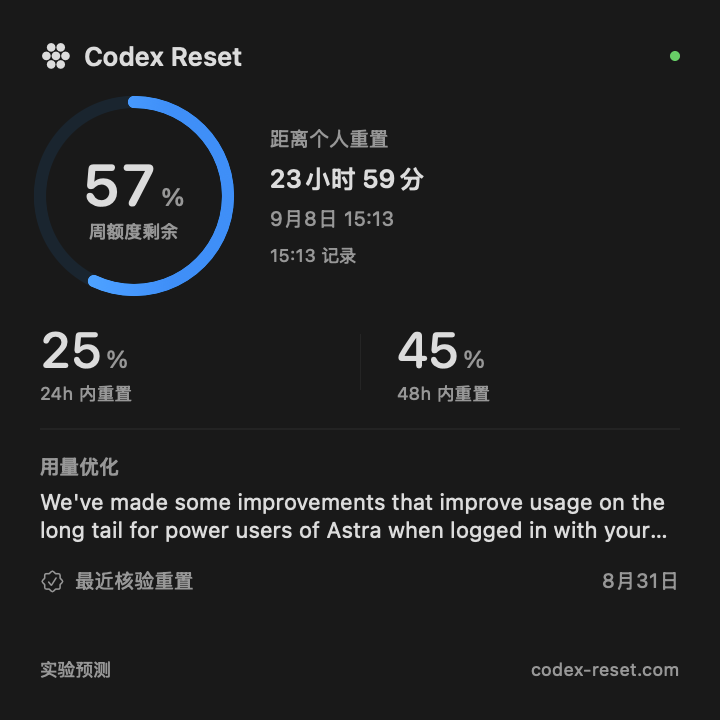
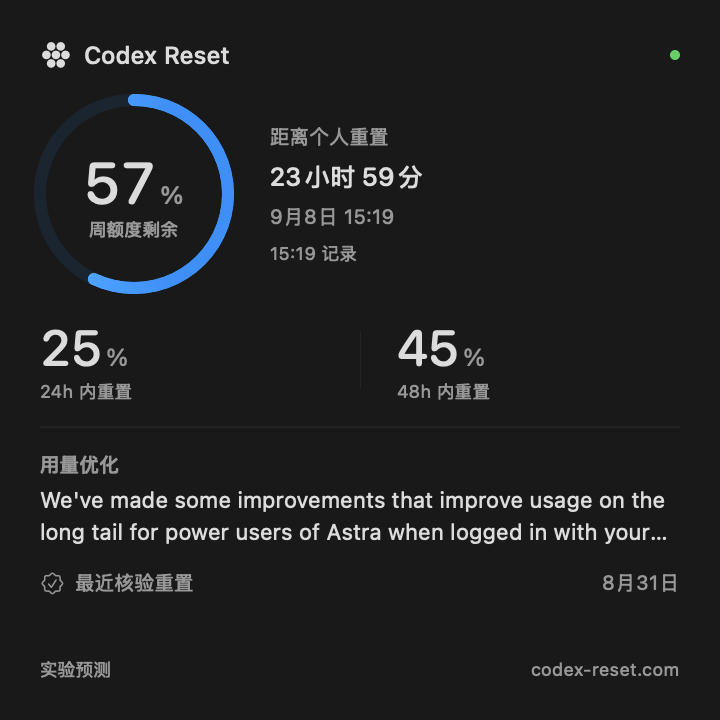
Refine widget typography and reload stale extension after builds

diff --git a/Widget/CodexResetWidget.swift b/Widget/CodexResetWidget.swift
@@ -42,7 +42,7 @@ struct ResetWidgetView: View {
         VStack(alignment: .leading, spacing: 12) {
             HStack(spacing: 6) {
                 Image(systemName: "circle.hexagongrid.fill").font(.system(size: 13, weight: .medium))
-                Text("Codex Reset").font(.system(size: 13, weight: .semibold))
+                Text("Codex Reset").font(.system(size: 12, weight: .medium))
                 Spacer()
                 Circle().fill(entry.snapshot.isStale(at: entry.date) ? Color.orange : Color.green).frame(width: 5, height: 5)
             }
@@ -65,8 +65,8 @@ struct ResetWidgetView: View {
         }
         .containerBackground(for: .widget) {
             Rectangle().fill(.background)
-                .overlay(alignment: .topLeading) {
-                    LinearGradient(colors: [.blue.opacity(0.045), .clear], startPoint: .topLeading, endPoint: .bottomTrailing)
+                .overlay {
+                    LinearGradient(colors: [.blue.opacity(0.07), .clear, .primary.opacity(0.025)], startPoint: .topLeading, endPoint: .bottomTrailing)
                 }
         }
         .widgetURL(URL(string: "codexreset://open"))
@@ -83,7 +83,7 @@ struct ResetWidgetView: View {
             if let post = posts.first {
                 VStack(alignment: .leading, spacing: 4) {
                     Text(ResetPresentation.category(post.kind)).font(.system(size: 10, weight: .semibold)).foregroundStyle(.secondary)
-                    Text(post.text).font(.system(size: 11)).lineLimit(2)
+                    Text(post.text).font(.system(size: 11, weight: .regular)).lineSpacing(2).lineLimit(2)
                 }
             }
             if let event = events.first, let date = event.announced_at {
@@ -118,7 +118,7 @@ struct ResetWidgetView: View {
         VStack(alignment: .leading, spacing: 6) {
             Text("距离个人重置").font(.system(size: 10)).foregroundStyle(.secondary)
             Text(entry.personal.isConfigured ? entry.personal.needsUpdate(at: entry.date) ? "等待更新" : ResetPresentation.countdown(to: entry.personal.resetAt, from: entry.date) : "连接 Codex")
-                .font(.system(size: extraLarge ? 15 : 17, weight: .semibold, design: .rounded))
+                .font(.system(size: extraLarge ? 15 : 17, weight: .medium, design: .rounded))
                 .lineLimit(1).minimumScaleFactor(0.75)
             if entry.personal.isConfigured {
                 Text(entry.personal.resetAt, format: .dateTime.month().day().hour().minute())
@@ -159,7 +159,7 @@ struct ResetWidgetView: View {
                         Spacer()
                         Text(post.at, format: .dateTime.month().day())
                     }.font(.system(size: 10)).foregroundStyle(.secondary)
-                    Text(post.text).font(.system(size: 12)).lineLimit(2)
+                    Text(post.text).font(.system(size: 12, weight: .regular)).lineSpacing(2).lineLimit(2)
                 }
             }
             Divider().opacity(0.45)
@@ -170,7 +170,7 @@ struct ResetWidgetView: View {
                         Text(date, format: .dateTime.month().day()).font(.system(size: 10, weight: .medium))
                             .foregroundStyle(.secondary).frame(width: 45, alignment: .leading)
                     }
-                    Text(event.summary).font(.system(size: 11)).lineLimit(2)
+                    Text(event.summary).font(.system(size: 11, weight: .regular)).lineSpacing(2).lineLimit(2)
                 }
             }
         }

diff --git a/Shared/ResetStyle.swift b/Shared/ResetStyle.swift
@@ -13,7 +13,7 @@ struct QuotaRing: View {
             VStack(spacing: 1) {
                 HStack(alignment: .firstTextBaseline, spacing: 1) {
                     Text(percent.map { "\(Int($0))" } ?? "—")
-                        .font(.system(size: size * 0.31, weight: .semibold, design: .rounded))
+                        .font(.system(size: size * 0.31, weight: .medium, design: .rounded))
                     if percent != nil { Text("%").font(.system(size: size * 0.13, weight: .medium)).foregroundStyle(.secondary) }
                 }.monospacedDigit()
                 Text("周额度剩余").font(.system(size: max(9, size * 0.075), weight: .medium)).foregroundStyle(.secondary)

diff --git a/README.md b/README.md
@@ -40,6 +40,8 @@ App 和 Widget 共用 `$(DEVELOPMENT_TEAM).com.cherine.codex-reset` App Group。
 
 运行主应用后，右键桌面 → **编辑小组件** → 搜索 **Codex Reset**，选择所需尺寸。若列表尚未出现，先将已构建的 App 拖入“应用程序”并打开一次。
 
+本地开发请使用 `script/build_and_run.sh` 更新。脚本在构建成功后同时重启主应用和本项目的小组件扩展，避免 WidgetKit 继续运行旧二进制而显示旧版界面；不会重启通知中心或其他应用的小组件。
+
 ## 数据与刷新
 
 | 内容 | 读取位置 |
